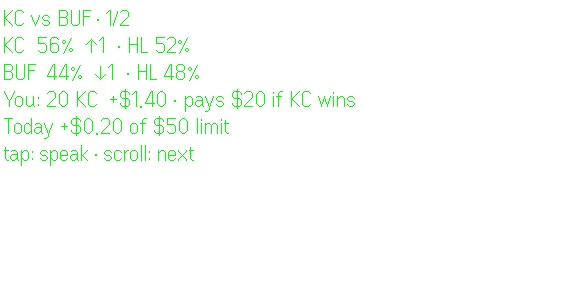
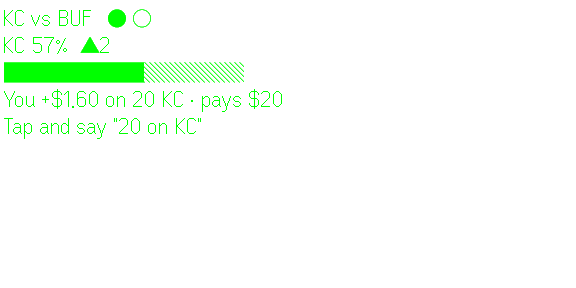
README first screen, fresh screenshots, "no glasses here" instead of an error code
- README opens with the one line ("Bet on the game without looking away from it."), two glasses frames, three points and the safety line. "Try it in 60 seconds" runs the demo venue to the cash-out card. A table shows listening, the press, the fill and the phone page.
- "Before and during the build week" answers the rule that asks what existed before 23 Nov: the first version from 22 Nov (commits 109b148–fb2ce74), then what the week added.
- Screenshots retaken from the simulator for the current screen: market, second market, listening, swing card, card with cash-out selected, "Cashing out 20 KC...", the fill, and the phone page. The old cards are gone, and the live testnet frame is kept as 08.
- A plain browser also gets a bridge, whose start-up page answers 1. The status says "no glasses here" and the code goes to the console.

diff --git a/app/src/main.ts b/app/src/main.ts
@@ -258,7 +258,9 @@ async function startGlasses() {
   shown = renderScreen(null, focus, offline)
   pageCard = null // starts on the market page; the first poll switches to a card page if one is waiting
   const result = await bridge.createStartUpPageContainer(new CreateStartUpPageContainer(page(shown, null)))
-  $('glasses').textContent = result === 0 ? '· glasses on' : `· glasses display error ${result}`
+  // A plain browser also gets a bridge, which answers 1 (invalid): the page says no glasses, the console keeps the code.
+  if (result !== 0) console.warn('createStartUpPageContainer returned', result)
+  $('glasses').textContent = result === 0 ? '· glasses on' : '· no glasses here'
   bridge.onEvenHubEvent(e => void onEvent(e))
 }
 

diff --git a/README.md b/README.md
@@ -1,6 +1,45 @@
-# Sideline Odds (even-polymarket)
+# Sideline Odds
 
-Live odds and your bet on Even Realities G2 glasses. Polymarket gives the live odds, and the order goes to a Hyperliquid **testnet** outcome market. You say "20 on KC" and tap YES.
+**Bet on the game without looking away from it.**
+
+Even Realities G2 glasses show the live odds of the game on TV and what your bet is worth. Say "20 on KC", tap the ring, and a signed order fills on Hyperliquid testnet. When the odds swing, a card offers the cash-out in one tap.
+
+<p>
+  <img src="docs/screenshots/01-market.png" width="288" alt="Glasses: KC vs BUF, KC 57% and rising, a bar, your bet +$1.60 on 20 KC">
+  <img src="docs/screenshots/05-card-cash-out.png" width="288" alt="A card after a swing: Cash out 20 KC for $13.60 (+$4.60)? Keep / Cash out 20 KC">
+</p>
+
+- **One number, then one tap.** The glasses show the game, its chance as a bar and your bet in money, and nothing else until it matters. Cards name the action (`Keep` / `Cash out 20 KC`, `Not now` / `Buy 29 KC`), with the safe one first.
+- **Real orders, with the brakes built first.** The server signs IOC limit orders with a client order id, so a lost reply is resolved from the exchange, never guessed. A daily loss lock, a pause after a losing cash-out, and limits that take 24 h to raise all apply before any bet goes out.
+- **Live, not polled.** Polymarket's book streams over its websocket, and the rules run within 0.5 s of a move. Every live session is taped and can be played back.
+
+Hyperliquid **testnet** only: no real money, no advice. The mic listens only after a tap. The keys stay on your server, and they can trade but not withdraw.
+
+## Try it in 60 seconds
+
+```bash
+npm install && cp .env.example .env   # set APP_TOKEN, and VITE_APP_TOKEN to the same value
+npm run server                        # demo venue, no keys: you hold 20 KC in KC vs BUF
+npm run dev                           # second terminal: the app on :5174
+npm run sim                           # third terminal: the Even Hub simulator shows the glasses
+```
+
+About 40 s in, KC jumps about 18 points and a cash-out card appears. Scroll to `Cash out 20 KC` and tap. The glasses say `Cashing out 20 KC...` at once, then `Sold 20 KC for $13.60 (+$4.60)` with the time it took.
+
+| Listening | The press lands at once | Done | Phone page |
+|---|---|---|---|
+| <img src="docs/screenshots/03-listening.png" width="200" alt="● Listening"> | <img src="docs/screenshots/06-cashing-out.png" width="200" alt="Cashing out 20 KC..."> | <img src="docs/screenshots/07-sold.png" width="200" alt="Sold 20 KC for $13.60 (+$4.60)"> | <img src="docs/screenshots/09-phone.jpg" width="120" alt="Phone page: games to tap on and off, two limits"> |
+
+## Before and during the build week
+
+The rules ask what existed before 23 Nov. A first working version was written on 22 Nov: the Hyperliquid testnet venue with L1 signing, Polymarket odds, the rules and limits, the HTTP API, and the glasses app (market page, card, voice end-pointing). In this repository that is commits `109b148`–`fb2ce74`.
+
+Built during the week:
+- lost-reply resolution by `cloid` and `expiresAfter`
+- parallel ticks, and settlements read from `userFills`
+- the redesigned glasses screen and phone page, with games matched to Polymarket automatically
+- live odds over the websocket, and tape and replay
+- CI and the simulator end-to-end run
 
 ## Architecture
 
